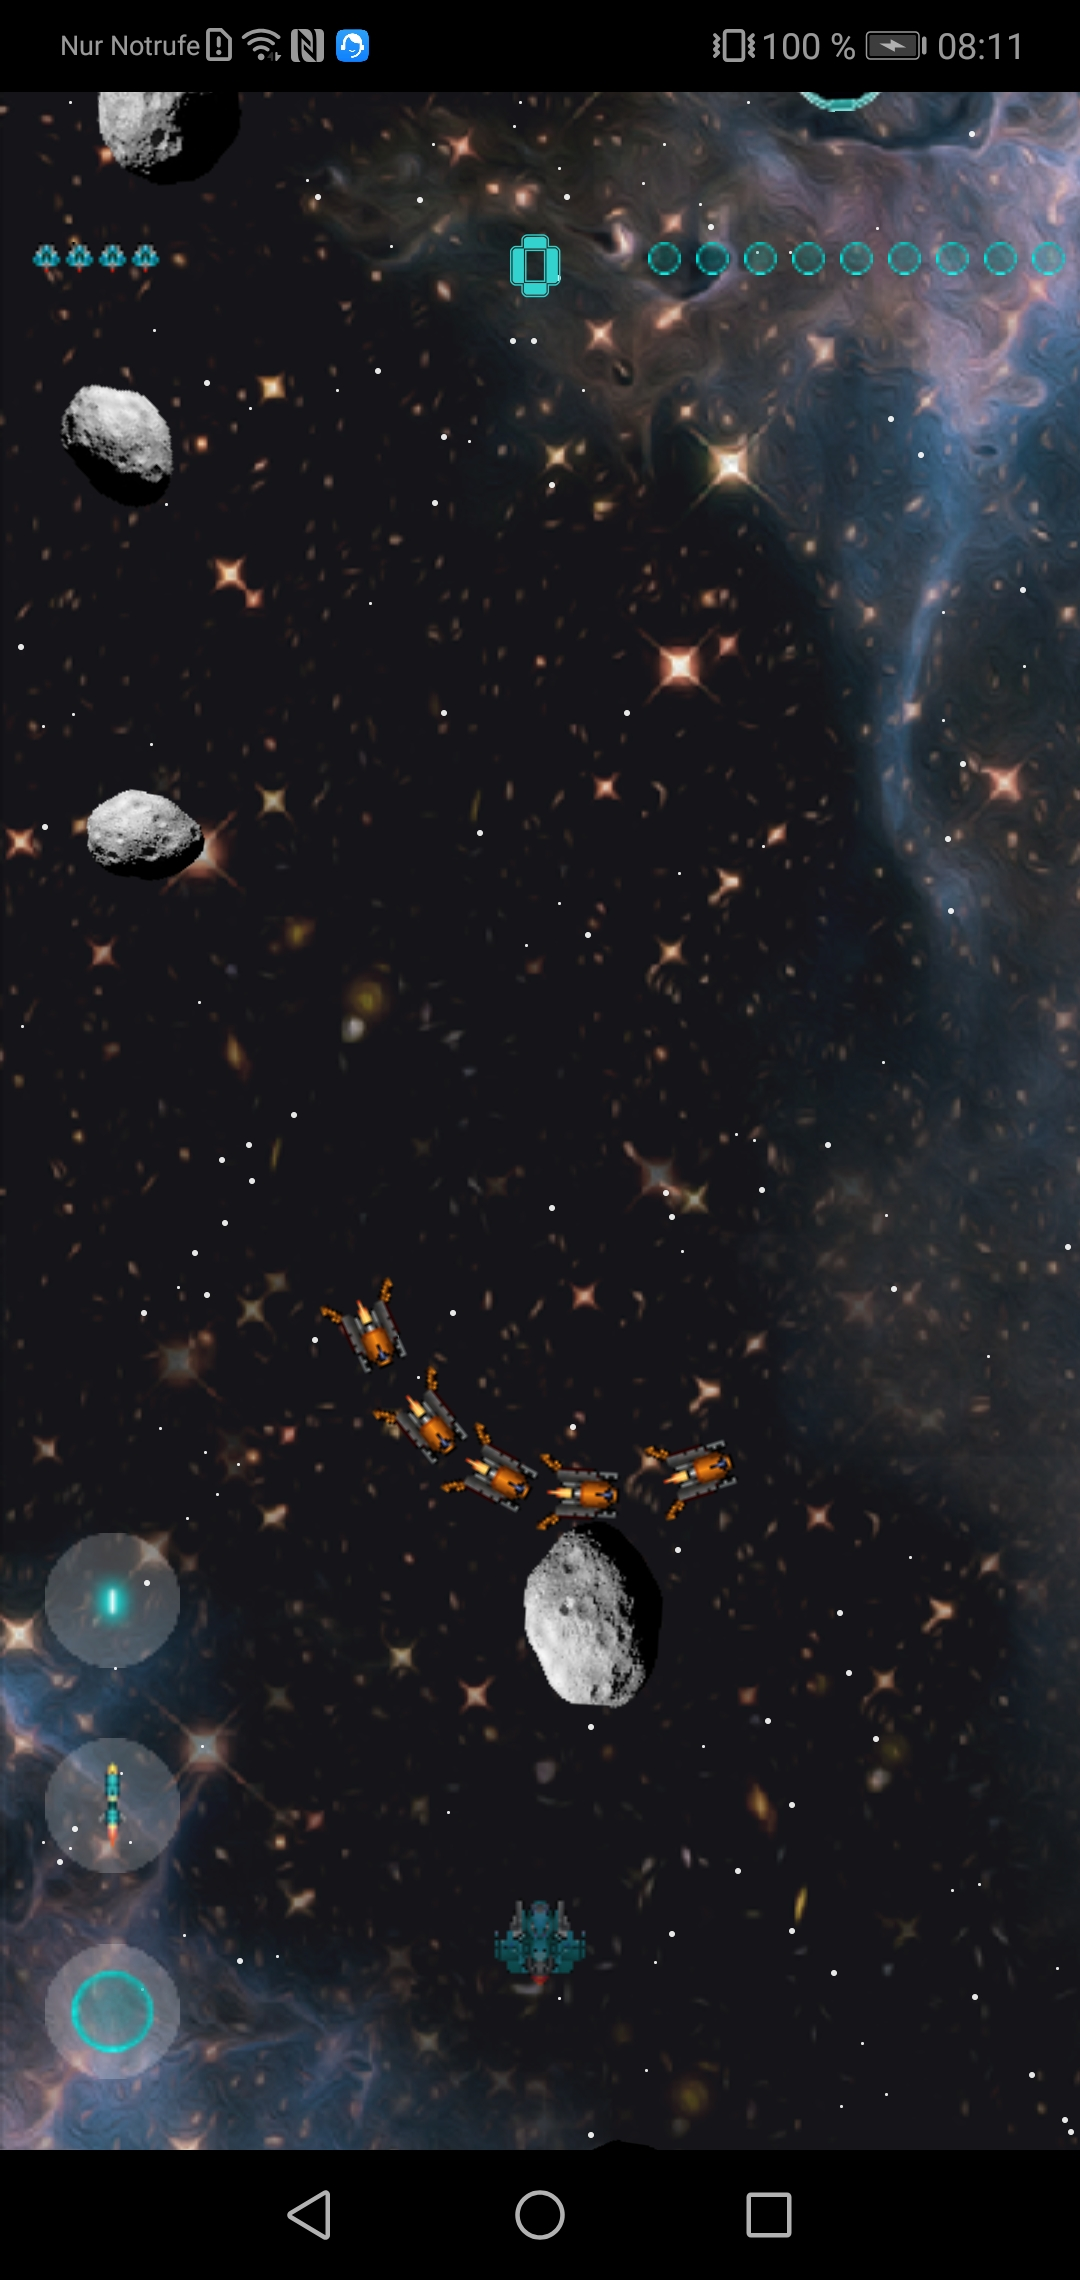
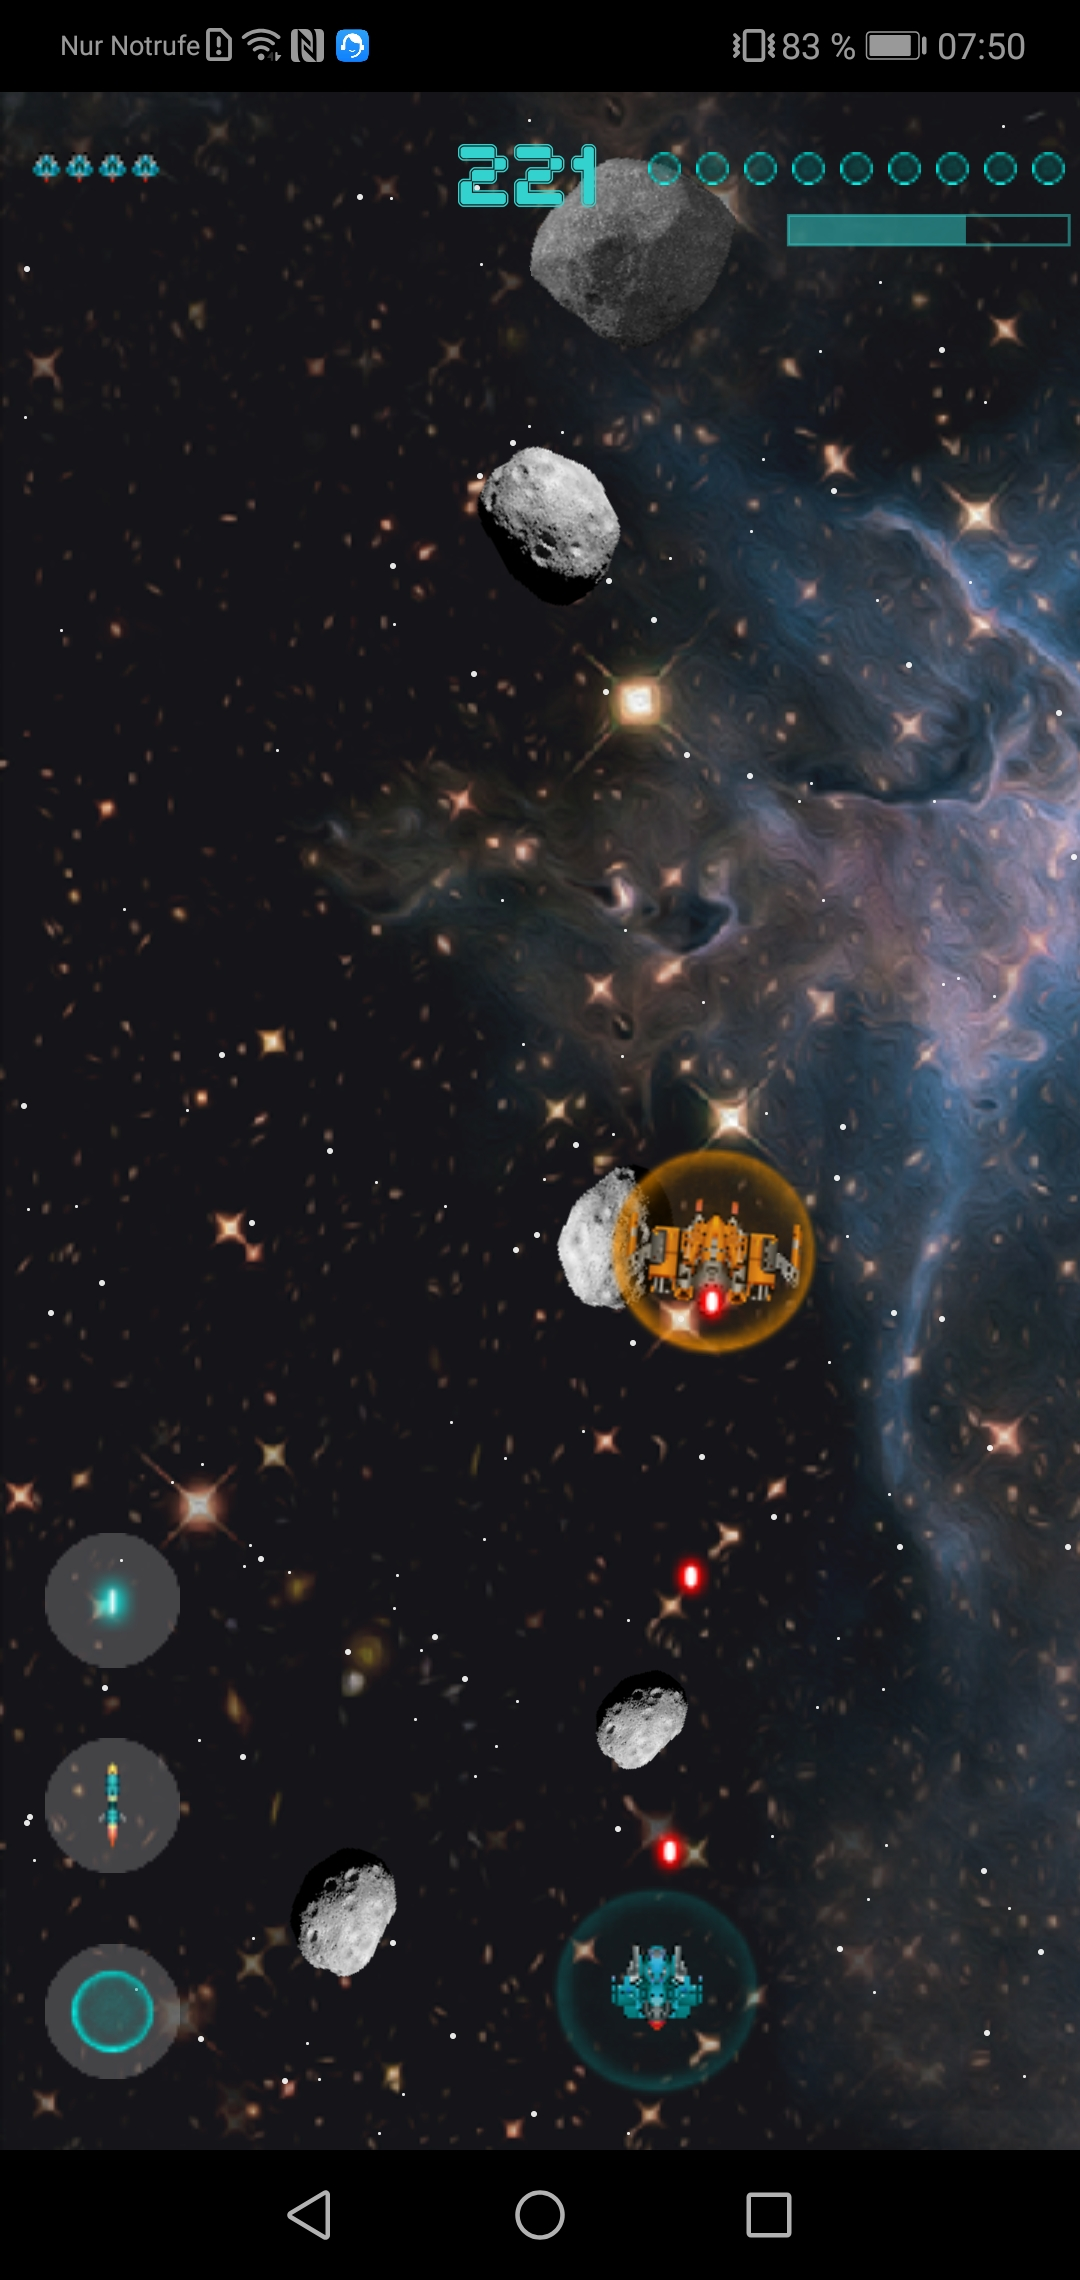
Resized the images in README.md and updated the Android screenshot

diff --git a/README.md b/README.md
@@ -9,9 +9,9 @@ enemy boss that also fires rockets.
 Donations are welcome at [Paypal](https://paypal.me/hans0l0)
 
 ### Desktop and Mobile
-![Desktop](https://raw.githubusercontent.com/HanSolo/SpaceFX/master/SpaceFX_Desktop.jpg)
-![iOS](https://raw.githubusercontent.com/HanSolo/SpaceFX/master/SpaceFX_iOS.jpg)
-![Android](https://raw.githubusercontent.com/HanSolo/SpaceFX/master/SpaceFX_Android.jpg)
+<p>Desktop<br><img src="https://raw.githubusercontent.com/HanSolo/SpaceFX/master/SpaceFX_Desktop.jpg" width=50%></img></p>
+<p>iOS<br><img src="https://raw.githubusercontent.com/HanSolo/SpaceFX/master/SpaceFX_iOS.jpg" width=50%></img></p>
+<p>Android<br><img src="https://raw.githubusercontent.com/HanSolo/SpaceFX/master/SpaceFX_Android.jpg" width=50%></img></p>
 
 
 ### Youtube video
